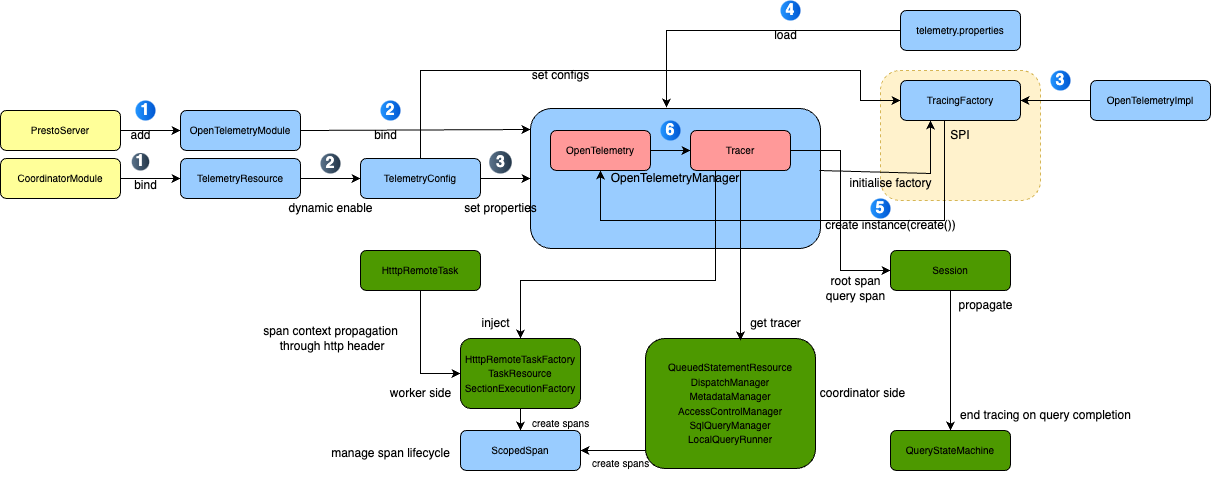
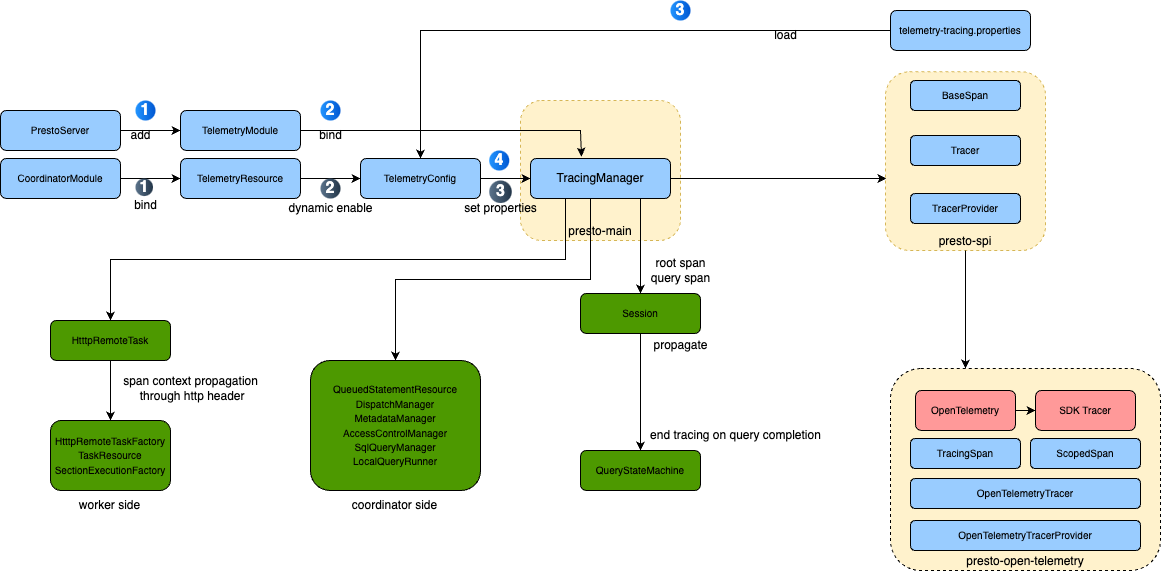
Updated as per the latest implementation.

diff --git a/RFC-0009-open-telemetry.md b/RFC-0009-open-telemetry.md
@@ -67,9 +67,16 @@ OpenTelemetry maintains several official propagators. The default propagator is 
 Based on the discussion, this may need to be updated with feedback from reviewers.
 
 ## Adoption Plan
-Tracing providers can be implemented by extending the `Tracing Factory` interface in SPI module and provide the implementation.
+`BaseSpan` - SPI can be extended with the specific implementation which contains the actual SDK Span. BaseSpan propagates through the main presto code.
+`Tracer` - SPI for the span operations which can be implemented by specific serviceability framework.
+`TraceProvider` - SPI to supply different `Tracer` implementations.
 
-As of now we have one implementation for Open Telemetry can be configured by modifying the values in presto-main/etc/telemetry.properties
+`BaseSpan` introduced as part of new design. Hooks inside `Tracer` and `TraceProvider` is added/updated to match the design.
+`NoopTracer` removed as we have a default `Tracer` implementation in `presto-main/..tracing/DefaultTelemetryTracer`
+
+`Tracer` implementation get loaded by `PluginManager` at startup as before.
+
+Trace can be configured by modifying the values in presto-main/etc/telemetry-tracing.properties
 
 ```properties
 tracing-factory.name=otel
@@ -79,24 +86,27 @@ max-exporter-batch-size=256
 max-queue-size=1024
 schedule-delay=1000
 exporter-timeout=1024
+trace-sampling-ratio=1.0
 span-sampling=true
 ```
 
-***tracing-factory.name***: unique identifier for factory implementation to be registered
+***tracing-factory.name***: Unique identifier for factory implementation to be registered.
 
-***tracing-enabled***: boolean value controlling if tracing is on or off
+***tracing-enabled***: Boolean value controlling if tracing is on or off.
 
-***tracing-backend-url***: points to otel collector or backend for exporting telemetry data
+***tracing-backend-url***: Points to backend for exporting telemetry data.
 
-***max-exporter-batch-size***: maximum number of spans that will be exported in one batch
+***max-exporter-batch-size***: Maximum number of spans that will be exported in one batch.
 
-***max-queue-size***: maximum number of spans that can be queued before being processed for export
+***max-queue-size***: Maximum number of spans that can be queued before being processed for export.
 
-***schedule-delay***: delay between batches of span export, controlling how frequently spans are exported
+***schedule-delay***: Delay between batches of span export, controlling how frequently spans are exported.
 
-***exporter-timeout***: how long the span exporter will wait for a batch of spans to be successfully sent before timing out
+***exporter-timeout***: How long the span exporter will wait for a batch of spans to be successfully sent before timing out.
 
-***span-sampling***: boolean to enable/disable sampling. If enabled, spans are only generated for major operations
+***trace-sampling-ratio***: Double between 0.0 and 1.0 to specify the percentage of queries to be traced.
+
+***span-sampling***: Boolean to enable/disable sampling. If enabled, spans are only generated for major operations.
 
 ## Test Plan
 
